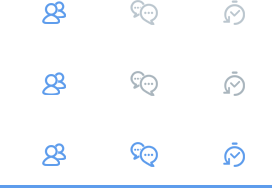
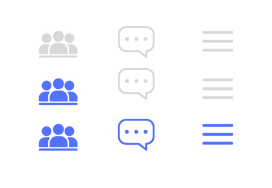
dark mode is added

diff --git a/css/style.css b/css/style.css
@@ -3,13 +3,13 @@
   padding: 0px;
 }
 body {
-  background: #f0f1f2;
+  background: #a8a8a8;
   font: 12px "Open Sans", sans-serif;
 }
 
 #chatbox {
   width: 300px;
-  background: #fff;
+  background: rgb(14, 13, 13);
   border-radius: 6px;
   overflow: hidden;
   height: 484px;
@@ -37,23 +37,23 @@ body {
   border-bottom: 2px solid #d8dfe3;
   position: sticky;
   top: 0;
-  background: #fff;
+  background: rgb(0, 0, 0);
 }
 #topmenu span {
   float: left;
   width: 96px;
   height: 50px;
-  background: url("../images/menu-icon.png") no-repeat;
+  background: url("../images/top-menu.png") no-repeat;
 }
 #topmenu span.friends {
   background-position: -11px -60px;
 }
 #topmenu span.chats {
-  background-position: -86px -13px;
+  background-position: -86px -7px;
   cursor: pointer;
 }
 #topmenu span.chats:hover {
-  background-position: -86px -108px;
+  background-position: -86px -100px;
   cursor: pointer;
 }
 #topmenu span.own-profile {
@@ -126,7 +126,7 @@ body {
   position: relative;
 }
 .friend:hover {
-  background: #f1f4f6;
+  background: #166aa1;
   cursor: pointer;
 }
 .friend img {
@@ -151,7 +151,7 @@ body {
 .friend p strong {
   font-weight: 600;
   font-size: 15px;
-  color: #597a96;
+  color: #028bff;
 }
 .friend p span {
   font-size: 13px;
@@ -174,7 +174,7 @@ body {
   background: #eaeef0;
 }
 #search {
-  background: #e3e9ed url("../images/search.png") -11px 0 no-repeat;
+  background: #022b46;
   height: 60px;
   width: 320px;
   position: sticky;
@@ -182,11 +182,11 @@ body {
   left: 0;
 }
 #searchfield {
-  background: #e3e9ed;
+  background: #022b46;
   margin: 21px 0 0 55px;
   border: none;
   padding: 0;
-  font-size: 14px;
+  font-size: 18px;
   font-family: "Open Sans", sans-serif;
   font-weight: 400px;
   color: #8198ac;
@@ -201,7 +201,7 @@ body {
   top: 0;
   left: 0;
   display: none;
-  background: #fff;
+  background: #000;
 }
 #profile {
   height: 60px;
@@ -263,11 +263,11 @@ body {
   border-radius: 4px;
   text-align: center;
   margin-top: 10px;
-  background-color: #fafdfc;
+  background-color: #242e2b;
   margin-left: 8px;
 }
 .information p {
-  color: rgb(48, 58, 2);
+  color: rgb(255, 255, 255);
   font-size: 14px;
   font-weight: 400;
   margin: 20px;
@@ -289,6 +289,7 @@ body {
   -ms-transition: all 200ms cubic-bezier(0, 0.995, 0.99, 1);
   -o-transition: all 200ms cubic-bezier(0, 0.995, 0.99, 1);
   transition: all 200ms cubic-bezier(0, 0.995, 0.99, 1);
+  background-color: rgb(0, 0, 0);
 }
 #chat-messages.animate {
   opacity: 1;
@@ -326,12 +327,12 @@ body {
   margin-right: -38px;
 }
 .message .bubble {
-  background: #f0f4f7;
+  background: #2e6995;
   font-size: 13px;
   font-weight: 600;
   padding: 12px 13px;
   border-radius: 5px 5px 5px 0px;
-  color: #8495a3;
+  color: #fff;
   position: relative;
   float: left;
   z-index: 111;
@@ -359,7 +360,7 @@ body {
 div.message.right .corner {
   left: auto;
   right: -7px;
-  background: #f0f4f7 url("../images/bubble-corner.png") 0 0 no-repeat;
+  background: #2e6995 url("../images/bubble-corner.png") 0 0 no-repeat;
   clip-path: polygon(80% 0%, 100% 100%, 10% 50%);
   width: 50px;
   height: 30px;
@@ -373,30 +374,30 @@ div.message.right .corner {
 }
 #sendmessage {
   height: 60px;
-  border-top: 1px solid #e7ebee;
+  border-top: 1px solid #3d4143;
   position: absolute;
   left: 0;
   bottom: 0;
   right: 0px;
   width: 99%;
-  background: #fff;
+  background: #000;
 }
 
 #sendmessage input {
-  background: #fff;
+  background: #000;
   margin: 21px 0 0 21px;
   border: none;
   padding: 0;
   font-size: 16px;
   font-family: "Open Sans", sans-serif;
   font-weight: bold;
-  color: #a7a4a4;
+  color: #f1eded;
 }
 #sendmessage input:focus {
   outline: none;
 }
 #sendmessage button {
-  background: #fff url("../images/send.png") 0 -41px no-repeat;
+  background: #020202 url("../images/send.png") 0 -41px no-repeat;
   width: 30px;
   height: 30px;
   position: absolute;
@@ -406,7 +407,6 @@ div.message.right .corner {
 }
 #sendmessage button:hover {
   cursor: pointer;
-  background-position: 0 0;
 }
 #sendmessage button:focus {
   outline: 0;
